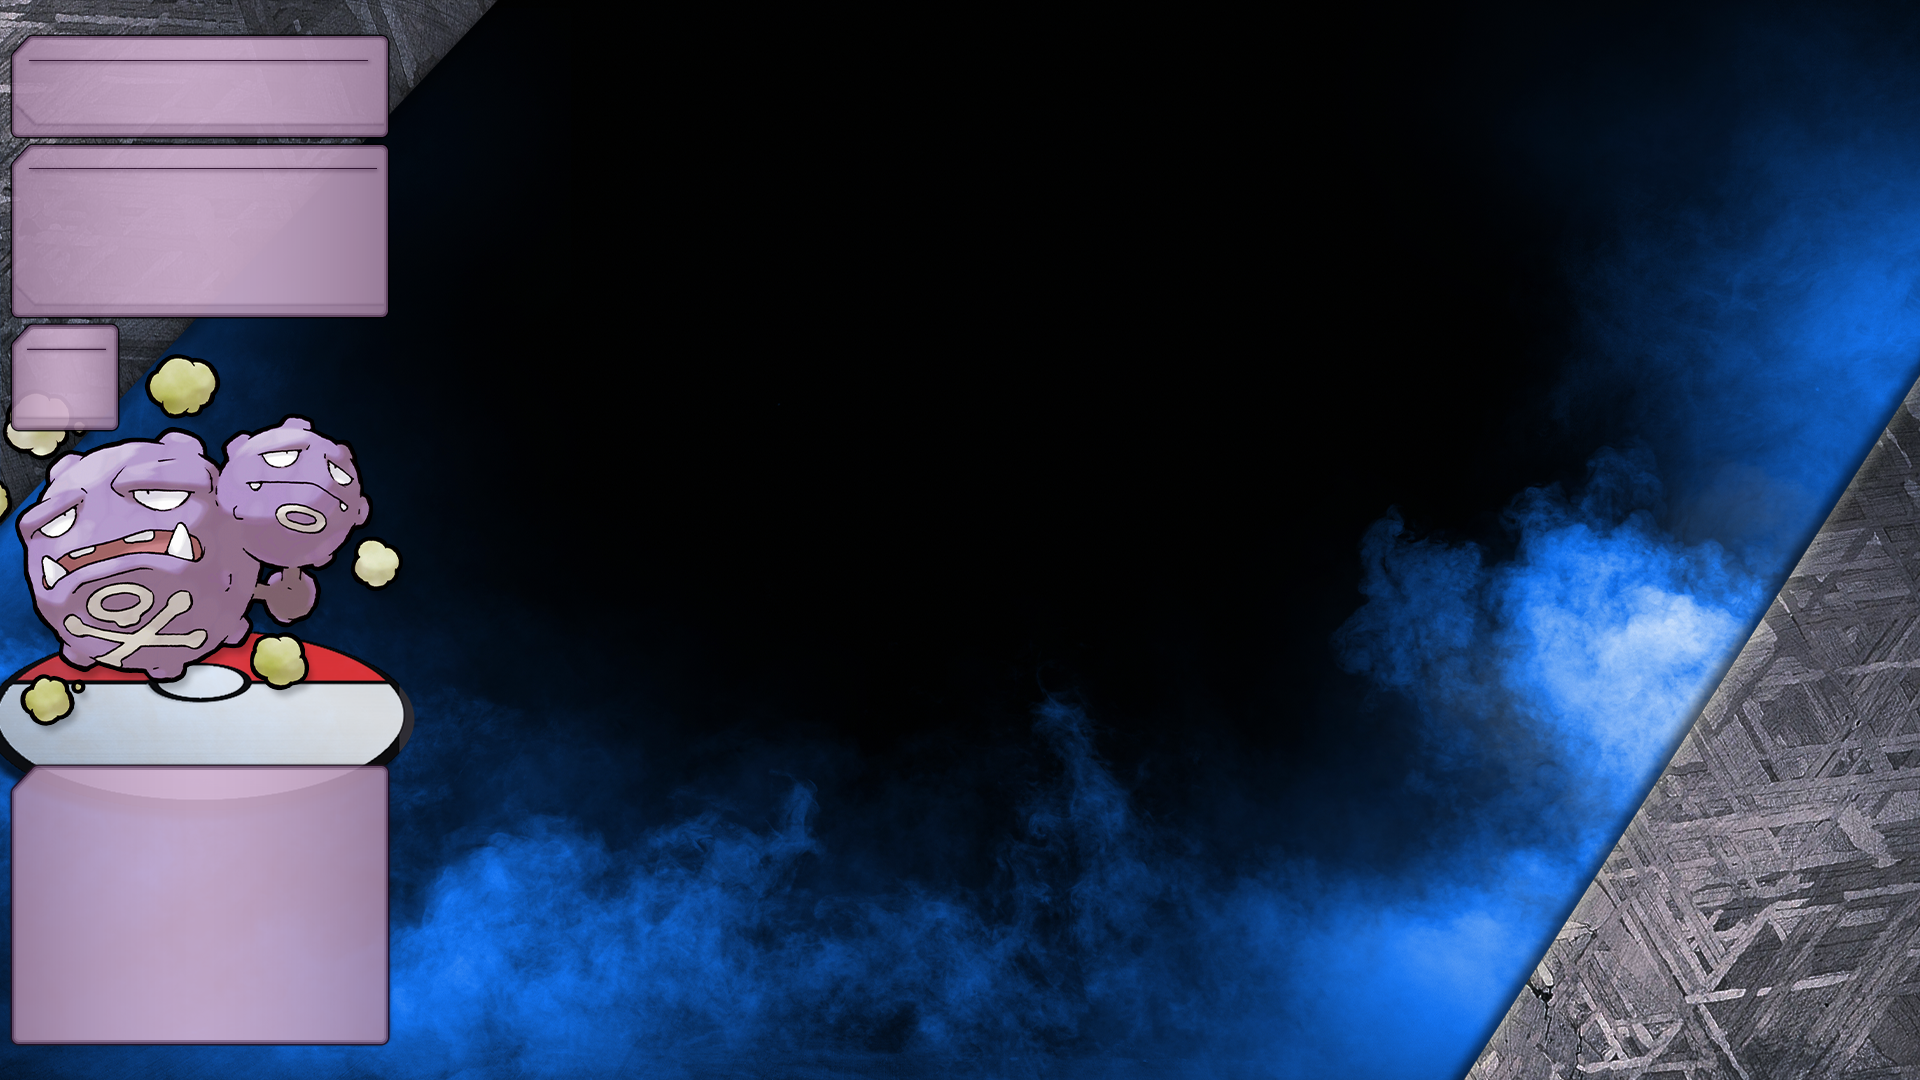
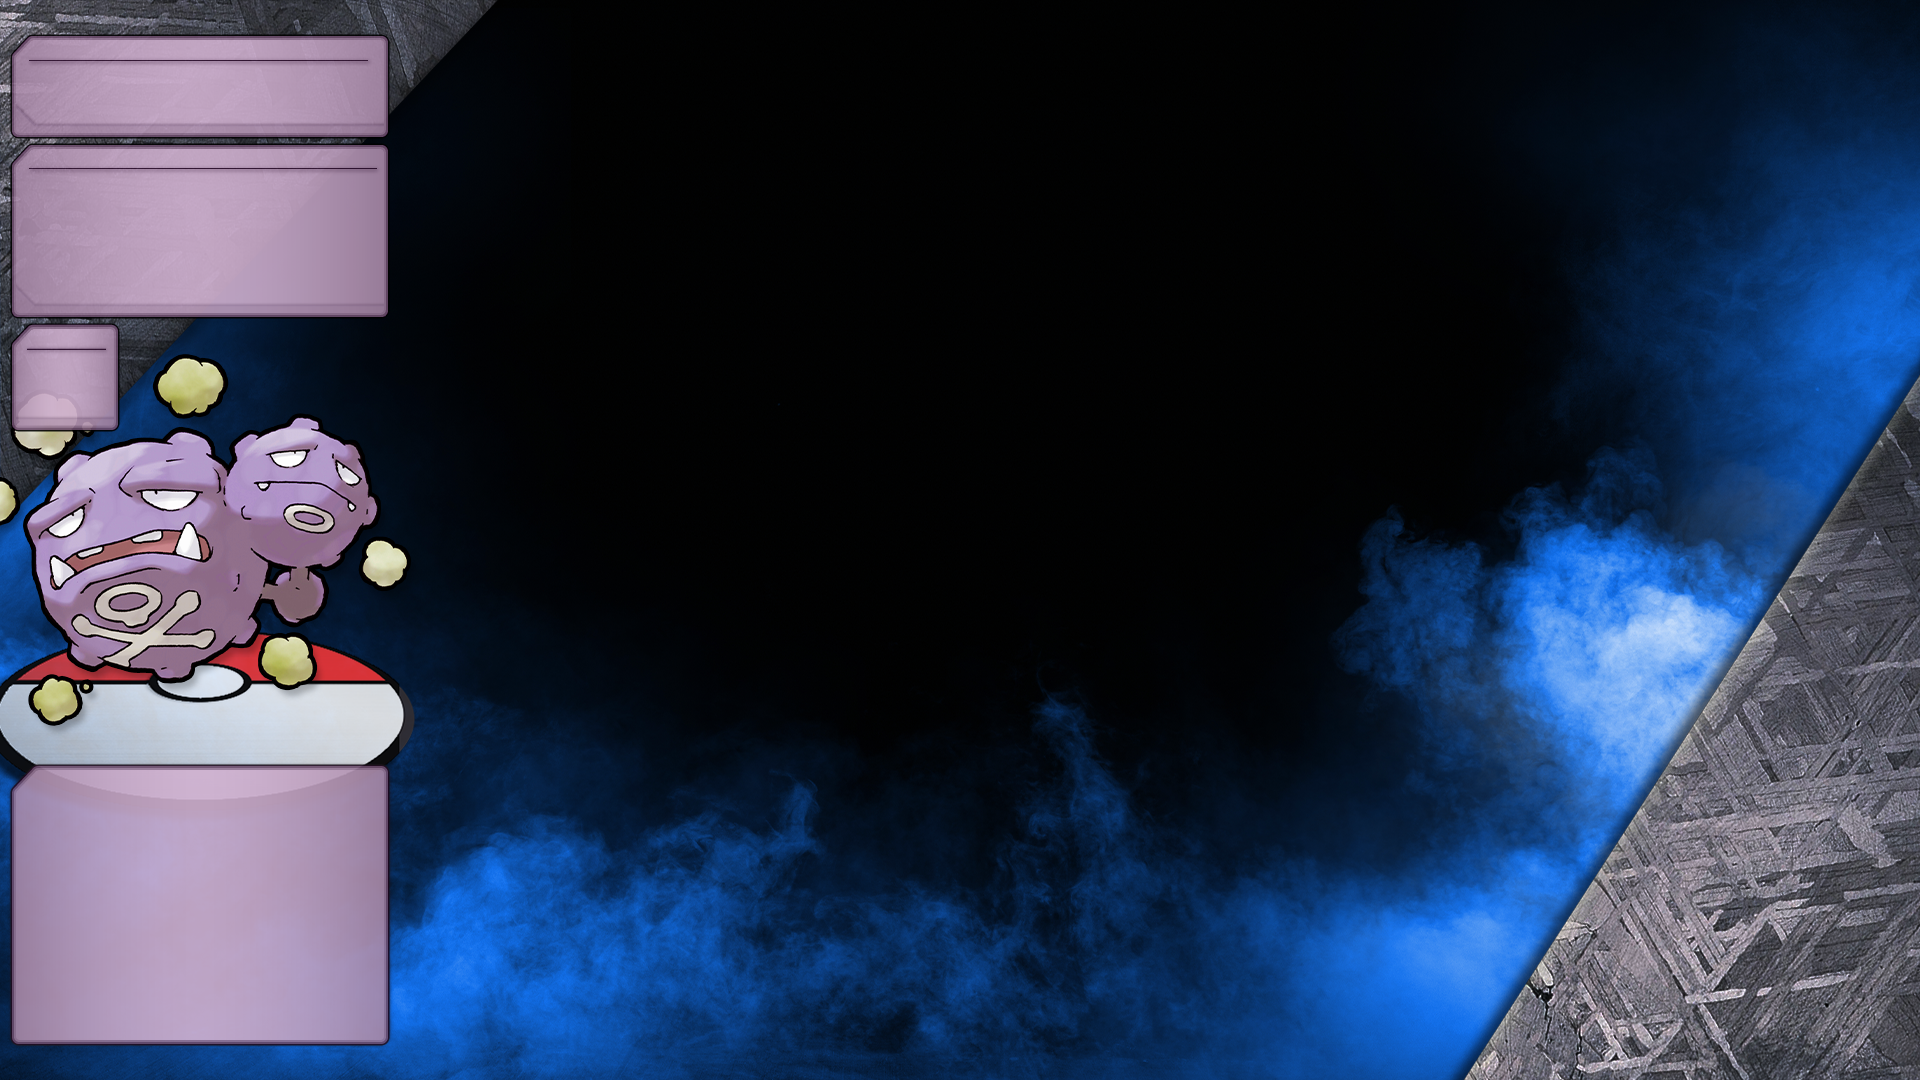
small fixed
- removed unused zip folder
- fixed arbok and weezing overlay
- created a hack to fix smokescreen's power being displayed as "0"

Changed region(s): [[0.0, 0.3361, 0.2188, 0.6722]]

diff --git a/scripts/vue.js b/scripts/vue.js
@@ -6,9 +6,9 @@ const app = Vue.createApp({
             mapper: null,
 
             // USER CONFIG --------------------------------------------------------------------------------------//
-            starterName:     "Venonat", //string name
+            starterName:     "Arbok", //string name
             overlayName:     "", // add "-yellow" or "-red" here based on the game being played (or "-type" for Venomoth's type randomizer)
-            secondPlaythrough:   true, //used to mitigate luck on second playthroughs
+            secondPlaythrough:   false, //used to mitigate luck on second playthroughs
             moonEncounters:      true, //true turns Mt Moon encounters off for second playthroughs
             
             developmentFeatures: true, //turn on new features
@@ -856,6 +856,7 @@ const app = Vue.createApp({
         // MOVE MANAGEMENT
         movePower(y) { //y = move1.value
             if (y) {
+                if (y.toLowerCase() == "smokescreen") { return "-"}
                 // var move = this.gen1moves.find(x => x.Move.toLowerCase() === y.toLowerCase())
                 var move = this.g1MoveData[y]
                 if (this.showCritMultiplierInEP == true && (y.toUpperCase() == "RAZOR LEAF" || y.toUpperCase() == "CRABHAMMER" || y.toUpperCase() == "SLASH" || y.toUpperCase() == "KARATE CHOP")) {
